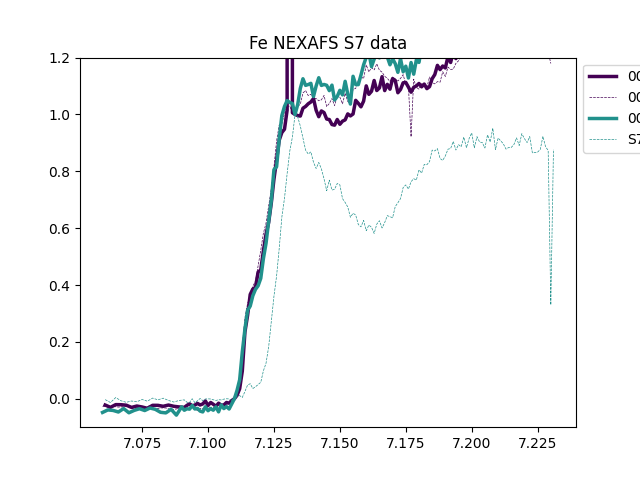
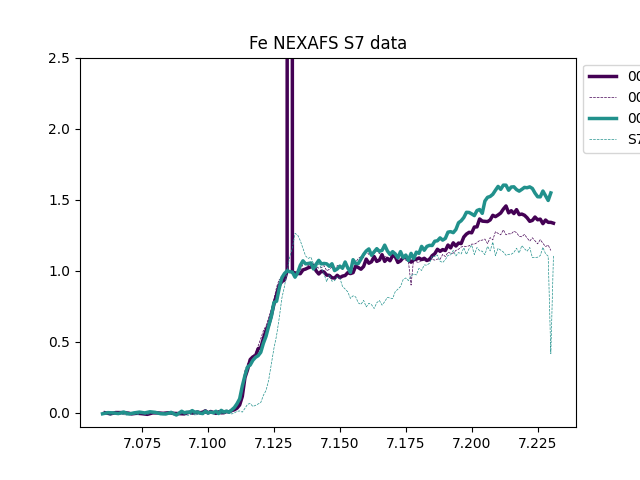
outliers_function

diff --git a/functions.py b/functions.py
@@ -25,6 +25,9 @@ def process_files(file_dict, var1, var2):
             df[f'{var1}/{var2}'] = df[var1] / df[var2]
             # Combine DataFrames
             combined_df = pd.concat([combined_df, df], ignore_index=True)
+    
+    # Apply Z-score based outlier removal
+    combined_df = remove_outliers(combined_df, [var1, var2, f'{var1}/{var2}'], z_threshold)
 
     # Group by 'monoE' and calculate mean and std
     grouped = combined_df.groupby('monoE').agg({
@@ -38,6 +41,15 @@ def process_files(file_dict, var1, var2):
     grouped.rename(columns={'monoE_': 'monoE'}, inplace=True)
     
     return grouped
+
+def remove_outliers(df, columns, z_threshold=3):
+    """Remove outliers from a DataFrame based on Z-score."""
+    for column in columns:
+        df['z_score'] = np.abs((df[column] - df[column].mean()) / df[column].std(ddof=0))
+        df = df[df['z_score'] < z_threshold]
+    df = df.drop(columns=['z_score'])  # Drop the z_score column after filtering
+    return df
+
 
 def process_files_OLD(file_dict):
     combined_df = pd.DataFrame()
